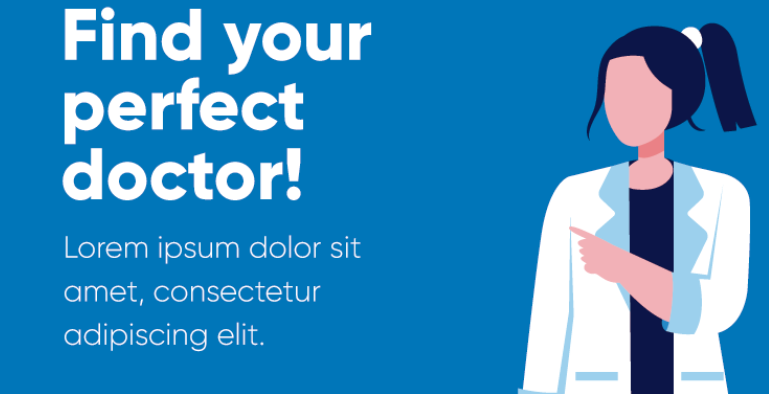
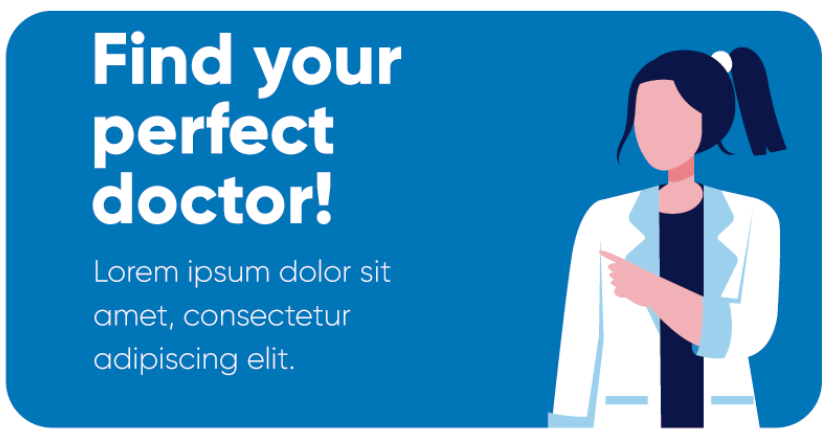
update styles

diff --git a/src/medconnectapp/src/screens/Dashboard/Dashboard.tsx b/src/medconnectapp/src/screens/Dashboard/Dashboard.tsx
@@ -71,7 +71,7 @@ export const DashboardScreen = ({navigation, route} :Props) => {
         </View>
 
         <View style={styles.content}>
-          
+          <Text style={[styles.subtitle, {marginBottom: 5}]}>Especialistas</Text>
           <Card image = {require("../../assets/images/persona02.png")}/>
           <Card image = {require("../../assets/images/persona04.png")}/>
           <Card image = {require("../../assets/images/persona03.png")}/>

diff --git a/src/medconnectapp/src/components/header/HeaderContainer/styles.ts b/src/medconnectapp/src/components/header/HeaderContainer/styles.ts
@@ -6,8 +6,8 @@ export const styles = StyleSheet.create({
     backgroundColor: globalStyles.primaryColor,
 
     marginBottom: 10,
-    borderBottomLeftRadius: 3,
-    borderBottomRightRadius: 3,
+    borderBottomLeftRadius: 0,
+    borderBottomRightRadius: 0,
   },
   content: {
     marginVertical: globalMargin.marginVertical,

diff --git a/src/medconnectapp/src/components/carousel/Carousel.jsx b/src/medconnectapp/src/components/carousel/Carousel.jsx
@@ -7,7 +7,7 @@ const carouselData = [
   },
   {
     id: 2,
-    image: require('../../assets/images/banner.png'),
+    image: require('../../assets/images/banner1.png'),
   },
   {
     id: 3,

diff --git a/src/medconnectapp/src/screens/Dashboard/styles.ts b/src/medconnectapp/src/screens/Dashboard/styles.ts
@@ -55,7 +55,9 @@ export const styles = StyleSheet.create({
 
     borderRadius: 2,
   },
-
+  subtitle: {
+    fontSize: 16,
+  },
   box: {
     height: 300,
     backgroundColor: '#DDD',
